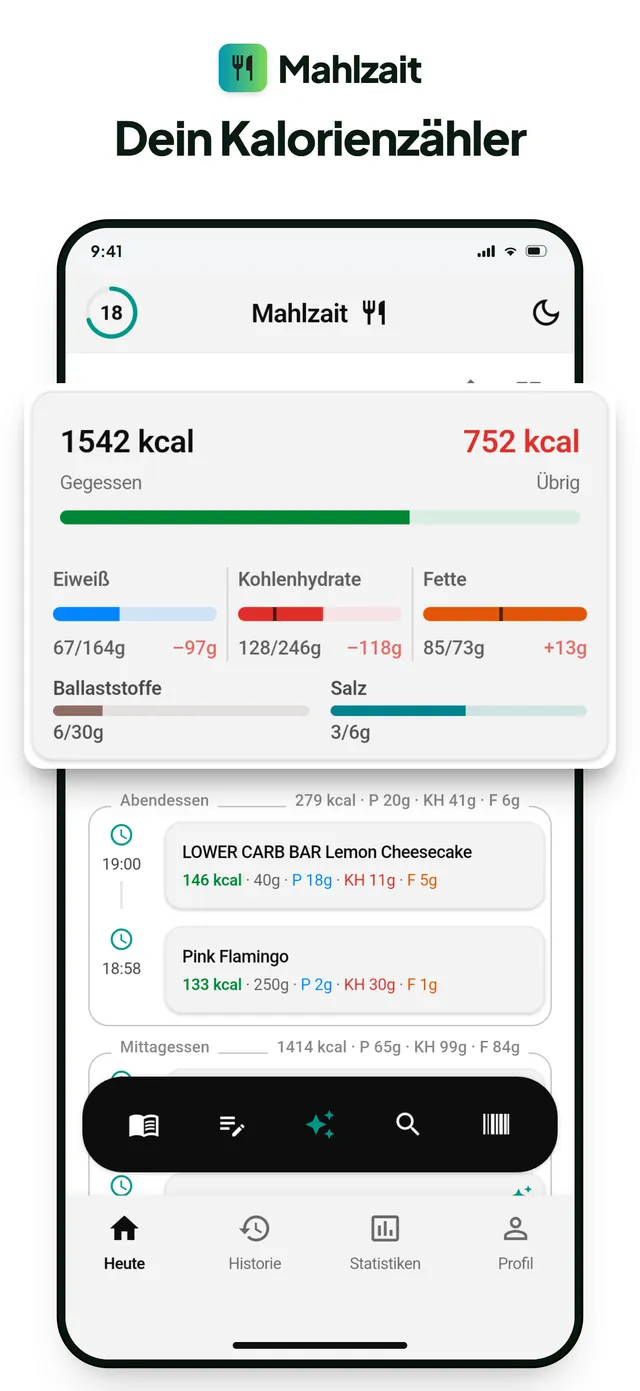
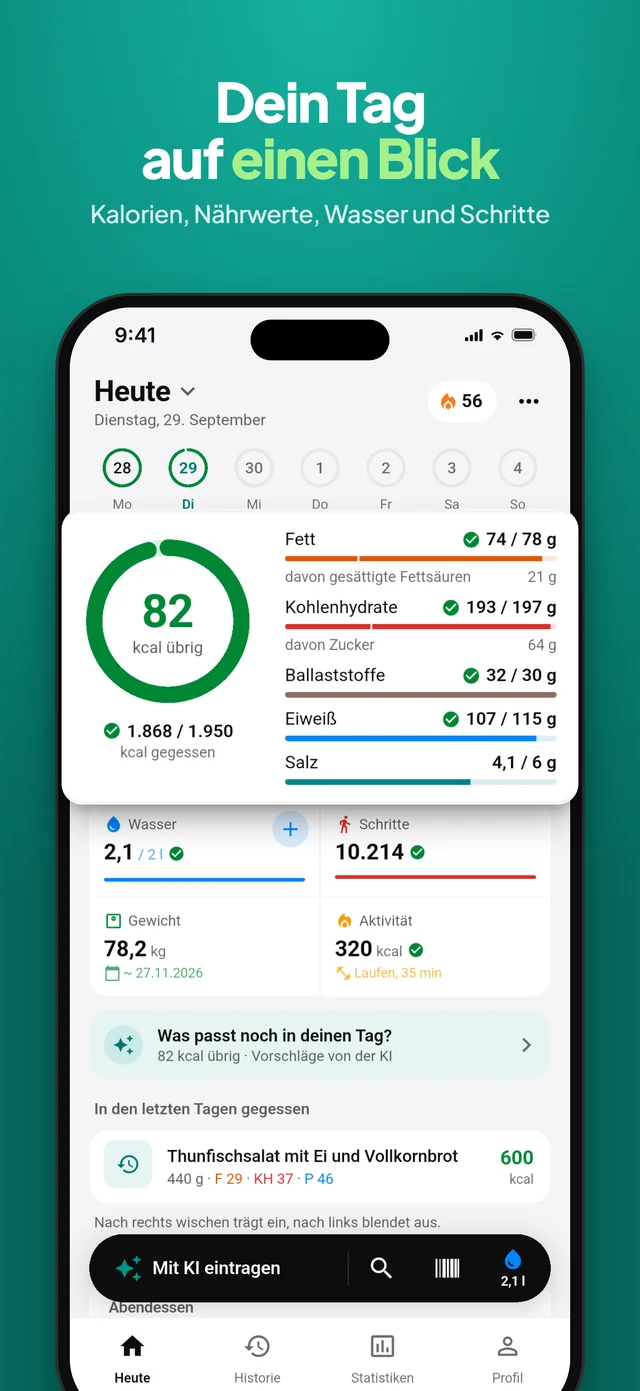
Galerie zeigt die neuen App-Store-Screens
Die zehn Store-Bilder des Redesigns ersetzen die von Version 209. Erst
veröffentlichen, wenn sie auch im App Store hängen, die Galerie verspricht
"so wie sie im App Store stehen".

diff --git a/src/modules/home/_components/appGallery/index.tsx b/src/modules/home/_components/appGallery/index.tsx
@@ -1,19 +1,20 @@
 import { useRef } from "react";
 import { getTrackedAppLink, trackAppStoreClick } from "utils/trackingLinks";
 
-// Die zehn Screens, wie sie im App Store hängen (Version 209, 9. September 2026), in Store-Reihenfolge,
-// als WebP in public/screenshots/store/. Die Headline ist Teil der Grafik, alt beschreibt den Inhalt.
+// Die zehn Screens des Redesigns (Herbst 2026) in Store-Reihenfolge, als WebP in
+// public/screenshots/store/. Erst live schalten, wenn sie auch im App Store hängen.
+// Die Headline ist Teil der Grafik, alt beschreibt den Inhalt.
 const screens = [
-  { file: "01_ki_foto", alt: "Ein fotografierter Frühstücksteller mit Lachs, Ei und Avocado, von der KI als Mahlzeit mit 592 kcal erkannt" },
-  { file: "02_home", alt: "Tagesübersicht: 1.542 kcal gegessen, 752 übrig, Eiweiß, Kohlenhydrate und Fette als Balken" },
-  { file: "03_meal_vorschlag", alt: "KI-Essensvorschlag für heute: pikantes Hähnchengeschnetzeltes mit Kartoffeln, 410 kcal, passend zum Ziel" },
-  { file: "04_stats", alt: "Wochenstatistik: Eiweiß, Kohlenhydrate, Fette, Ballaststoffe und Salz im Vergleich zum Ziel" },
-  { file: "05_home_health", alt: "Mit Apple Health verbunden: Schritte, Gewicht, Aktivität, Schlaf, Wasser und Fasten auf einen Blick" },
-  { file: "06_gewicht", alt: "Gewichtsverlauf über drei Monate mit Zielgewicht 85 kg und Wochenschnitt" },
+  { file: "01_foto", alt: "Ein fotografierter Frühstücksteller mit Lachs, Ei und Avocado, von der KI mit 705 kcal erkannt" },
+  { file: "02_home", alt: "Tagesübersicht: 1.868 von 1.950 kcal gegessen, 82 kcal übrig, dazu Fett, Kohlenhydrate, Ballaststoffe, Eiweiß und Salz" },
+  { file: "03_text", alt: "Per Text eingetragen: 1 Apfel und 250 ml Kaffee mit Hafermilch, zusammen 115 kcal" },
+  { file: "04_vorschlaege", alt: "KI-Vorschlag für den Rest des Tages: Hähnchenpfanne mit buntem Gemüse und Basmati-Reis, 494 kcal" },
+  { file: "05_gewicht", alt: "Gewichtsverlauf seit Juli: 78,2 kg, 6,2 kg weniger, Ziel 75 kg" },
+  { file: "06_naehrwerte", alt: "Nährwerte der Woche: Eiweiß im Schnitt 110 g pro Tag, dazu Fett, Kohlenhydrate, Ballaststoffe und Salz" },
   { file: "07_suche", alt: "Lebensmittelsuche nach Magerquark mit Nährwerten je 100 g verschiedener Marken" },
-  { file: "08_kalender", alt: "Kalenderansicht Februar 2026 mit Kalorien und Eiweiß pro Tag" },
-  { file: "09_whatsapp", alt: "Mahlzeit per WhatsApp an Mahlzait schicken: Foto vom Teller, Antwort mit 571 kcal und Tagesstand" },
-  { file: "10_reviews", alt: "4,6 Sterne im App Store und drei Nutzerbewertungen" },
+  { file: "08_historie", alt: "Kalender September 2026 mit 29 Tagen im Ziel und dem Tagesstand samt Mahlzeiten" },
+  { file: "09_statistik", alt: "Wochenstatistik mit Tagesdurchschnitt, Bilanz und Gewichtsverlauf" },
+  { file: "10_stimmen", alt: "4,6 von 5 Sternen im App Store und drei Nutzerbewertungen" },
 ];
 
 function AppGallery() {
